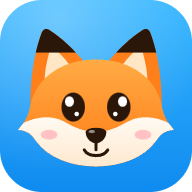
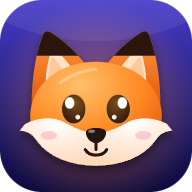
App-Symbol: Entwurf 4 (weich modellierter Fuchs mit Licht), hell tiefes Indigo, dunkel schwarz; Symbol-Dateien neu

diff --git a/src/lib/appIcon.ts b/src/lib/appIcon.ts
@@ -1,10 +1,10 @@
 /**
- * Das App-Symbol: der Fuchs (Fenni) als eigene, bewusst einfache Zeichnung: wenige große Formen, kräftige Farben, riesige Augen.
- * So wirkt es auch klein auf dem Startbildschirm; die feine Figur aus der App hat dafür zu viele Einzelheiten.
- * Hell: leuchtendes Blau (Gegenfarbe zum Orange), dunkel: Schwarz.
+ * Das App-Symbol: der Fuchs (Fenni) als weich modellierte, eigene Zeichnung: wenige große Formen mit Licht und Schatten,
+ * wie bei den bekannten Lern-Apps und nach Apples Richtlinien (eine Hauptfigur in der Mitte, keine feinen Linien, Tiefe durch überlappende Flächen).
+ * Hell: tiefes Indigo mit warmem Lichtschein hinter dem Fuchs. Dunkel: Schwarz, dieselbe Zeichnung.
  */
-export const ICON_LIGHT = { top: '#35b6ff', bottom: '#0f8bf0' }
-export const ICON_DARK = { top: '#18181b', bottom: '#000000' }
+export const ICON_LIGHT = { top: '#463bc8', bottom: '#0d0a3c' }
+export const ICON_DARK = { top: '#1a1a20', bottom: '#000000' }
 
 /** Die zwei Farben des Hintergrund-Verlaufs (oben, unten). */
 export const iconColors = (dark: boolean): { top: string; bottom: string } => (dark ? ICON_DARK : ICON_LIGHT)
@@ -17,56 +17,64 @@ export interface IconOptions {
 }
 
 const INK = '#2b170a'
+const mirrored = (inner: string) => `<g transform="translate(512 0) scale(-1 1)">${inner}</g>${inner}`
 
-/** Das rechte Ohr (das linke ist die Spiegelung). Koordinaten 512 x 512, Kopf um x = 256. */
-const ear = (id: string) =>
-  // außen orange, innen hell, die Spitze dunkel
-  `<path d="M262 172 C300 112 348 66 392 38 Q407 30 414 48 C436 106 448 188 446 268 Z" fill="#ff7f1a"/>` +
-  `<path d="M302 186 C326 144 354 110 386 84 C400 126 408 172 406 224 Z" fill="#ffe6c4"/>` +
-  `<g clip-path="url(#${id}-tip)"><path d="M262 172 C300 112 348 66 392 38 Q407 30 414 48 C436 106 448 188 446 268 Z" fill="${INK}"/></g>`
+const HEAD = 'M256 128 C352 128 432 182 448 262 C454 292 450 318 438 340 C402 398 332 434 256 434 C180 434 110 398 74 340 C62 318 58 292 64 262 C80 182 160 128 256 128 Z'
+const EAR = 'M262 172 C300 112 348 66 392 40 Q407 32 414 50 C436 108 448 188 446 268 Z'
+const CHEEK = 'M254 338 C292 338 320 324 348 308 C384 288 432 294 466 312 C472 320 478 326 482 332 C450 334 440 350 430 364 C396 410 330 436 254 436 Z'
 
-/** Die Zeichnung (Fuchskopf) in 512 x 512, mittig und mit Rand, damit weder Ohren noch Wangenspitzen am Rand kleben. */
+/** Die Zeichnung des Fuchskopfes (512 x 512), mittig mit Rand, damit weder Ohren noch Wangenspitzen am Rand kleben. */
 function foxArt(id: string): string {
   return (
     `<defs>` +
-    `<linearGradient id="${id}-h" x1="0" y1="0" x2="0" y2="1"><stop offset="0" stop-color="#ffab45"/><stop offset="1" stop-color="#ff7a14"/></linearGradient>` +
-    `<linearGradient id="${id}-w" x1="0" y1="0" x2="0" y2="1"><stop offset="0" stop-color="#fffaf2"/><stop offset="1" stop-color="#ffe9cf"/></linearGradient>` +
-    `<clipPath id="${id}-tip"><rect x="0" y="0" width="512" height="104"/></clipPath>` +
+    `<radialGradient id="${id}h" cx="0.38" cy="0.22" r="0.85"><stop offset="0" stop-color="#ffc06b"/><stop offset="0.55" stop-color="#ff8a24"/><stop offset="1" stop-color="#e1560b"/></radialGradient>` +
+    `<radialGradient id="${id}w" cx="0.5" cy="0.1" r="0.9"><stop offset="0" stop-color="#ffffff"/><stop offset="1" stop-color="#ffd9bb"/></radialGradient>` +
+    `<linearGradient id="${id}e" x1="0" y1="0" x2="0" y2="1"><stop offset="0" stop-color="#ff9a3d"/><stop offset="1" stop-color="#e1560b"/></linearGradient>` +
+    `<radialGradient id="${id}i" cx="0.4" cy="0.3" r="0.8"><stop offset="0" stop-color="#7a4a1c"/><stop offset="1" stop-color="${INK}"/></radialGradient>` +
+    `<clipPath id="${id}t"><rect width="512" height="110"/></clipPath>` +
+    `<filter id="${id}s" x="-20%" y="-20%" width="140%" height="150%"><feDropShadow dx="0" dy="16" stdDeviation="13" flood-color="#000" flood-opacity="0.5"/></filter>` +
     `</defs>` +
-    `<g transform="translate(256 258) scale(0.92) translate(-256 -232)">` +
-    `<g transform="translate(512 0) scale(-1 1)">${ear(id)}</g>` +
-    ear(id) +
-    // Kopf über den Ohren
-    `<path d="M256 124 C352 124 428 174 446 256 C450 278 458 302 482 328 C450 330 440 346 430 360 C396 408 330 434 256 434 C182 434 116 408 82 360 C72 346 62 330 30 328 C54 302 62 278 66 256 C84 174 160 124 256 124 Z" fill="url(#${id}-h)"/>` +
-    // weiße Wangen (beide Seiten) über dem Kopf
-    `<g transform="translate(512 0) scale(-1 1)"><path d="M254 334 C292 334 320 320 348 304 C384 284 432 290 466 308 C472 316 478 322 482 328 C450 330 440 346 430 360 C396 408 330 434 254 434 Z" fill="url(#${id}-w)"/></g>` +
-    `<path d="M254 334 C292 334 320 320 348 304 C384 284 432 290 466 308 C472 316 478 322 482 328 C450 330 440 346 430 360 C396 408 330 434 254 434 Z" fill="url(#${id}-w)"/>` +
-    // Augen
-    `<g transform="translate(512 0) scale(-1 1)"><ellipse cx="322" cy="262" rx="34" ry="42" fill="${INK}"/><ellipse cx="333" cy="246" rx="13" ry="15" fill="#fff"/><circle cx="312" cy="282" r="6.5" fill="#fff"/><ellipse cx="392" cy="342" rx="24" ry="14" fill="#ff8fa3" opacity="0.5"/></g>` +
-    `<ellipse cx="322" cy="262" rx="34" ry="42" fill="${INK}"/><ellipse cx="333" cy="246" rx="13" ry="15" fill="#fff"/><circle cx="312" cy="282" r="6.5" fill="#fff"/><ellipse cx="392" cy="342" rx="24" ry="14" fill="#ff8fa3" opacity="0.5"/>` +
+    `<g transform="translate(256 262) scale(0.9) translate(-256 -236)" filter="url(#${id}s)">` +
+    // Ohren: außen Verlauf, innen hell, Spitze dunkel
+    mirrored(
+      `<path d="${EAR}" fill="url(#${id}e)"/>` +
+        `<path d="M302 186 C326 144 354 110 386 84 C400 126 408 172 406 224 Z" fill="#ffe3c2"/>` +
+        `<path d="M330 190 C346 160 366 134 386 112 C396 144 400 176 398 206 Z" fill="#ffc79a"/>` +
+        `<g clip-path="url(#${id}t)"><path d="${EAR}" fill="${INK}"/></g>`,
+    ) +
+    `<path d="${HEAD}" fill="url(#${id}h)"/>` +
+    mirrored(`<path d="${CHEEK}" fill="url(#${id}w)"/>`) +
+    `<path d="M150 190 C190 160 240 150 256 150" stroke="#fff" stroke-width="9" stroke-linecap="round" fill="none" opacity="0.28"/>` +
+    // Augen mit Lichtpunkten, Wangenröte
+    mirrored(
+      `<ellipse cx="322" cy="268" rx="36" ry="44" fill="url(#${id}i)"/>` +
+        `<ellipse cx="322" cy="268" rx="36" ry="44" fill="none" stroke="#ffb347" stroke-width="3" opacity="0.8"/>` +
+        `<ellipse cx="334" cy="250" rx="14" ry="17" fill="#fff"/><circle cx="310" cy="292" r="7" fill="#fff" opacity="0.9"/>` +
+        `<ellipse cx="396" cy="346" rx="24" ry="13" fill="#ff8fa3" opacity="0.4"/>`,
+    ) +
     // Nase und Mund
-    `<path d="M226 334 C226 318 286 318 286 334 C286 354 268 368 256 368 C244 368 226 354 226 334 Z" fill="${INK}"/>` +
-    `<ellipse cx="244" cy="333" rx="9" ry="4.5" fill="#fff" opacity="0.5"/>` +
-    `<path d="M256 368 V386 M222 386 C234 408 278 408 290 386" stroke="${INK}" stroke-width="9" stroke-linecap="round" fill="none"/>` +
+    `<path d="M226 336 C226 320 286 320 286 336 C286 356 268 370 256 370 C244 370 226 356 226 336 Z" fill="#241208"/>` +
+    `<ellipse cx="243" cy="334" rx="10" ry="5" fill="#fff" opacity="0.45"/>` +
+    `<path d="M256 370 V388 M224 388 C236 410 276 410 288 388" stroke="#241208" stroke-width="9" stroke-linecap="round" fill="none"/>` +
     `</g>`
   )
 }
 
-/**
- * Das fertige Symbol als SVG (512 x 512): Verlauf mit leichtem Glanz, darauf der Fuchs.
- */
+/** Das fertige Symbol als SVG (512 x 512): Verlauf mit Lichtschein und Glanz, darauf der Fuchs. */
 export function buildIconSvg(dark: boolean, opts: IconOptions = {}): string {
   const { round = true, scale = 1 } = opts
   const { top, bottom } = iconColors(dark)
-  const gid = `app-bg-${dark ? 'd' : 'l'}`
+  const id = `ic${dark ? 'd' : 'l'}`
+  const rx = round ? 112 : 0
   const off = (512 - 512 * scale) / 2
   return (
     `<svg xmlns="http://www.w3.org/2000/svg" viewBox="0 0 512 512" width="512" height="512">` +
-    `<defs><linearGradient id="${gid}" x1="0" y1="0" x2="0" y2="1"><stop offset="0" stop-color="${top}"/><stop offset="1" stop-color="${bottom}"/></linearGradient>` +
-    `<radialGradient id="${gid}-g" cx="0.3" cy="0.1" r="0.8"><stop offset="0" stop-color="#fff" stop-opacity="${dark ? 0.1 : 0.3}"/><stop offset="1" stop-color="#fff" stop-opacity="0"/></radialGradient></defs>` +
-    `<rect width="512" height="512" rx="${round ? 112 : 0}" fill="url(#${gid})"/>` +
-    `<rect width="512" height="512" rx="${round ? 112 : 0}" fill="url(#${gid}-g)"/>` +
-    `<g transform="translate(${off} ${off}) scale(${scale})">${foxArt(gid + '-f')}</g></svg>`
+    `<defs><linearGradient id="${id}b" x1="0" y1="0" x2="0" y2="1"><stop offset="0" stop-color="${top}"/><stop offset="1" stop-color="${bottom}"/></linearGradient>` +
+    `<radialGradient id="${id}g" cx="0.5" cy="0.55" r="0.55"><stop offset="0" stop-color="#ff8a3d" stop-opacity="${dark ? 0.4 : 0.55}"/><stop offset="1" stop-color="#ff8a3d" stop-opacity="0"/></radialGradient>` +
+    `<clipPath id="${id}c"><rect width="512" height="512" rx="${rx}"/></clipPath></defs>` +
+    `<g clip-path="url(#${id}c)"><rect width="512" height="512" fill="url(#${id}b)"/><rect width="512" height="512" fill="url(#${id}g)"/>` +
+    `<ellipse cx="256" cy="-120" rx="380" ry="230" fill="#fff" opacity="${dark ? 0.05 : 0.07}"/>` +
+    `<g transform="translate(${off} ${off}) scale(${scale})">${foxArt(id)}</g></g></svg>`
   )
 }
 

diff --git a/src/lib/appIcon.test.ts b/src/lib/appIcon.test.ts
@@ -21,12 +21,12 @@ describe('Lerntiere und ihre Namen', () => {
 })
 
 describe('App-Symbol', () => {
-  it('hell leuchtend, dunkel schwarz', () => {
+  it('hell tiefes Indigo, dunkel schwarz', () => {
     const l = iconColors(false)
     const d = iconColors(true)
     const sum = (hex: string) => parseInt(hex.slice(1, 3), 16) + parseInt(hex.slice(3, 5), 16) + parseInt(hex.slice(5, 7), 16)
     expect(sum(d.bottom)).toBe(0)
-    expect(sum(d.top)).toBeLessThan(80)
+    expect(sum(d.top)).toBeLessThan(100)
     expect(sum(l.top)).toBeGreaterThan(sum(l.bottom))
     // Hell ist blau: Blauanteil deutlich vor Rot
     expect(parseInt(l.top.slice(5, 7), 16)).toBeGreaterThan(parseInt(l.top.slice(1, 3), 16) + 100)
@@ -39,8 +39,8 @@ describe('App-Symbol', () => {
     expect(a).toContain('rx="112"')
     expect(a).toContain('<ellipse')
     expect(buildIconSvg(false, { scale: 0.68 })).toContain('scale(0.68)')
-    expect(a).toContain('app-bg-d')
-    expect(b).toContain('app-bg-l')
+    expect(a).toContain('icd')
+    expect(b).toContain('icl')
     expect(buildIconSvg(false, { round: false })).toContain('rx="0"')
     expect(a).not.toBe(b)
   })

diff --git a/docs/ENTWICKLUNG.md b/docs/ENTWICKLUNG.md
@@ -75,7 +75,7 @@ npm run dev      # http://localhost:5173
 npm test         # Vitest (Antwortprüfung, FSRS, Streak, Generator, Freischaltung, Seitenbereich, KI-Hilfen, Inhalte)
 npm run build    # Produktions-Build nach dist/
 ```
-Die festen App-Symbole in `public/` (PNG, `favicon.svg`) entstehen aus derselben Funktion wie das berechnete Symbol (`buildIconSvg` in `lib/appIcon.ts`); neu erzeugen: im Browser `buildIconSvg` mit `svgToPng` rastern (192/512 rund, 512 „maskable“ mit `scale: 0.74`, 180 randvoll) und `favicon.svg` mit Farbschema-Wechsel (hell blau, dunkel schwarz) ablegen.
+Die festen App-Symbole in `public/` (PNG, `favicon.svg`) entstehen aus derselben Funktion wie das berechnete Symbol (`buildIconSvg` in `lib/appIcon.ts`); neu erzeugen: im Browser `buildIconSvg` mit `svgToPng` rastern (192/512 rund, 512 „maskable“ mit `scale: 0.74`, 180 randvoll) und `favicon.svg` mit Farbschema-Wechsel (hell Indigo, dunkel schwarz) ablegen.
 
 `npm run dev`/`build` kopieren automatisch die Texterkennungs-Dateien nach `public/ocr` (siehe `scripts/copy-ocr.mjs`, nicht eingecheckt).
 
@@ -211,7 +211,7 @@ Mathe nutzt dieselbe Maschine wie Französisch (Lernpfad, Freischaltung, FSRS, T
 - **Sheets** (`Sheet.tsx`): über ein Portal unter `<body>` (sonst hängt das Fenster in der gerade hereingleitenden Seite und springt mit ihr), auf dem Handy in einem Zug von unten (0,38 s, ohne Federn), ohne Unschärfe-Animation. Das Eintragen-Fenster aus „Arbeit eintragen“ (`?neu=1`) öffnet erst nach dem Seitenwechsel.
 - **Sicherung** (`cloudSync.ts#cloudEnable`, `autoCloud.ts`): Ein Tipp legt (wie bei der KI) ein Puter-Gastkonto an und sichert sofort; danach sichert die App höchstens alle 6 Stunden von selbst (nur hoch, nur bei Gastkonten, nur wenn eingeschaltet). Ein eigenes Puter-Konto für mehrere Geräte bleibt als Weg darunter.
 - **Rückmeldungen** (`lib/feedback.ts`, `FeedbackSettings`, `relay/feedback-worker.js`): Fehlerprotokoll (letzte 15 Fehler, nur lokal), Zähler (`track`), Bericht mit sichtbarer Vorschau, Senden an `FEEDBACK_URL` (Cloudflare Worker mit KV, siehe `relay/README.md`) oder ohne Adresse über das Teilen-Fenster des Geräts. Anonyme Nutzungsdaten nur mit Einschalter (aus), höchstens einmal pro Woche, nie Inhalte. **`DEFAULT_FEEDBACK_URL` ist leer, bis das Postfach eingerichtet ist.**
-- **Symbol**: ein einziges Bild, der Fuchs (Fenni) als eigene, bewusst einfache Zeichnung (große Formen, riesige Augen, Wangenspitzen), hell auf leuchtendem Blau, im dunklen Farbschema auf Schwarz.
+- **Symbol**: ein einziges Bild, der Fuchs (Fenni) als eigene, weich modellierte Zeichnung (Licht und Schatten, große Augen mit Lichtpunkten, Wangenspitzen), hell auf tiefem Indigo mit warmem Lichtschein, im dunklen Farbschema auf Schwarz. Ausgesucht aus sechs Entwürfen (Scherenschnitt, flach, mit Doktorhut, weich mit Licht, Facetten, Nahaufnahme); Maßstab war Apples Leitfaden: eine Hauptfigur, wenige große Formen, keine feinen Linien.
 
 - **KI-Anmeldung direkt** (`ensureAiReady`): Der Klick auf eine KI-Aktion öffnet gleich das Fenster von Puter (gibt ein Gastkonto ohne E-Mail); nur wenn der Browser es blockiert, kommt das erklärende Fenster. Konten mit Wegwerf-E-Mails automatisch anlegen ist bewusst **nicht** eingebaut: Das umgeht den Schutz der Anmeldung bei Puter und ist nicht erlaubt; die Gastkonten von Puter sind der vorgesehene Weg ohne E-Mail.
 
@@ -221,5 +221,5 @@ Mathe nutzt dieselbe Maschine wie Französisch (Lernpfad, Freischaltung, FSRS, T
 - **Schneller eintragen**: Hausaufgaben mit einem Satz (`parseQuickHomework` in `lib/hausaufgaben.ts`: Fachwörter, heute/morgen/übermorgen, Wochentage, Datum mit Punkten; sonst zuletzt benutztes Fach und morgen), Vorschau darunter, „Ändern“ öffnet das Blatt. Erstellen-Seite: Themenvorschläge und „Speichern und üben“. Üben zeigt offene Hausaufgaben für heute.
 - **Messung** (`docs/MESSUNG.md`, `src/messung.test.tsx`): Vorher/nachher-Zählung der Tippen für fünf Aufgaben, im Mittel rund 55 % weniger (Einrichtung 55 und 61 %, Hausaufgabe 60 %, neue Karteikarten 40 %, Arbeit eintragen 60 %). Der Test hält die neuen Zahlen fest. Neu dafür: Themenvorschläge starten die KI mit einem Tipp (`QuickCards instant`), „Neu erstellen“ auf Üben ist ein Fenster mit `QuickCards`, Arbeiten werden im Kalender mit einem Satz eingetragen (`parseQuickArbeit`, `QuickArbeit` in `KalenderPage.tsx`), der Satz füllt auch das Blatt „Arbeit eintragen“ vor. Der Affe heißt Anton.
 - **Namen der Lerntiere**: Fenni (Fuchs), Elli (Elefant), Boris (Krokodil), Greta (Giraffe), Emil (Erdmännchen), Leo (Löwe), Momo (Panda), Pablo (Pinguin), Hilda (Nilpferd), Zora (Zebra), Anton (Affe), Rocco (Tiger). Unter den Kacheln steht der Name, nicht die Tierart (für Screenreader „Name, Tierart“). Tiger-Schwanz: ein Pfad, Streifen als gestrichelter Strich auf demselben Pfad.
-- **App-Symbol: immer der Fuchs, hell blau und dunkel schwarz** (`lib/appIcon.ts`, `lib/useAppIcon.ts`): Der Fuchs ist dort von Hand als SVG gezeichnet (`foxArt`: Ohren gespiegelt, Kopf, weiße Wangen, Augen, Nase), nicht aus der feinen Figur der App abgeleitet, weil die für ein kleines Symbol zu viele Einzelheiten hat. `buildIconSvg` setzt ihn in ein abgerundetes Quadrat mit Verlauf und Glanz (`ICON_LIGHT`, `ICON_DARK`), `applyAppIcon` setzt Browser-Symbol (SVG), `apple-touch-icon` (PNG 180) und eine eigene Manifest-Fassung (Blob mit absoluten Adressen, Symbole als PNG-Daten 192/512 und „maskable“). Läuft kurz nach dem Start und bei jedem Wechsel des Farbschemas. Das feste `favicon.svg` wechselt per `prefers-color-scheme`. Das Lerntier hat darauf keinen Einfluss. **Grenze:** Ein schon zum Startbildschirm hinzugefügtes Symbol ändert sich nicht (Betriebssystem); es muss neu hinzugefügt werden. Darauf weist `IconNotice` (Üben-Seite, nur in der installierten App, einmal) hin, und `MascotPicker` („Neues App-Symbol auf den Startbildschirm holen“) erklärt die Schritte mit Vorschau in Hell und Dunkel (`IconHelp`). Im Test läuft das nicht.
+- **App-Symbol: immer der Fuchs, hell Indigo und dunkel schwarz** (`lib/appIcon.ts`, `lib/useAppIcon.ts`): Der Fuchs ist dort von Hand als SVG gezeichnet (`foxArt`: Ohren gespiegelt, Kopf mit Verlauf, weiße Wangen, Augen, Nase, weicher Schlagschatten), nicht aus der feinen Figur der App abgeleitet, weil die für ein kleines Symbol zu viele Einzelheiten hat. `buildIconSvg` setzt ihn in ein abgerundetes Quadrat mit Verlauf und Glanz (`ICON_LIGHT`, `ICON_DARK`), `applyAppIcon` setzt Browser-Symbol (SVG), `apple-touch-icon` (PNG 180) und eine eigene Manifest-Fassung (Blob mit absoluten Adressen, Symbole als PNG-Daten 192/512 und „maskable“). Läuft kurz nach dem Start und bei jedem Wechsel des Farbschemas. Das feste `favicon.svg` wechselt per `prefers-color-scheme`. Das Lerntier hat darauf keinen Einfluss. **Grenze:** Ein schon zum Startbildschirm hinzugefügtes Symbol ändert sich nicht (Betriebssystem); es muss neu hinzugefügt werden. Darauf weist `IconNotice` (Üben-Seite, nur in der installierten App, einmal) hin, und `MascotPicker` („Neues App-Symbol auf den Startbildschirm holen“) erklärt die Schritte mit Vorschau in Hell und Dunkel (`IconHelp`). Im Test läuft das nicht.
 - **Robust bei hängender KI** (`QuickCards.tsx`): Beim Warten gibt es „Abbrechen“, nach 75 Sekunden eine klare Meldung statt endlosem Drehen, und die späte Antwort einer abgebrochenen Anfrage wird ignoriert (Zähler `ticket`). Wichtig für echtes Netz und das Puter-Fenster, die in den Tests nur nachgebaut sind.
